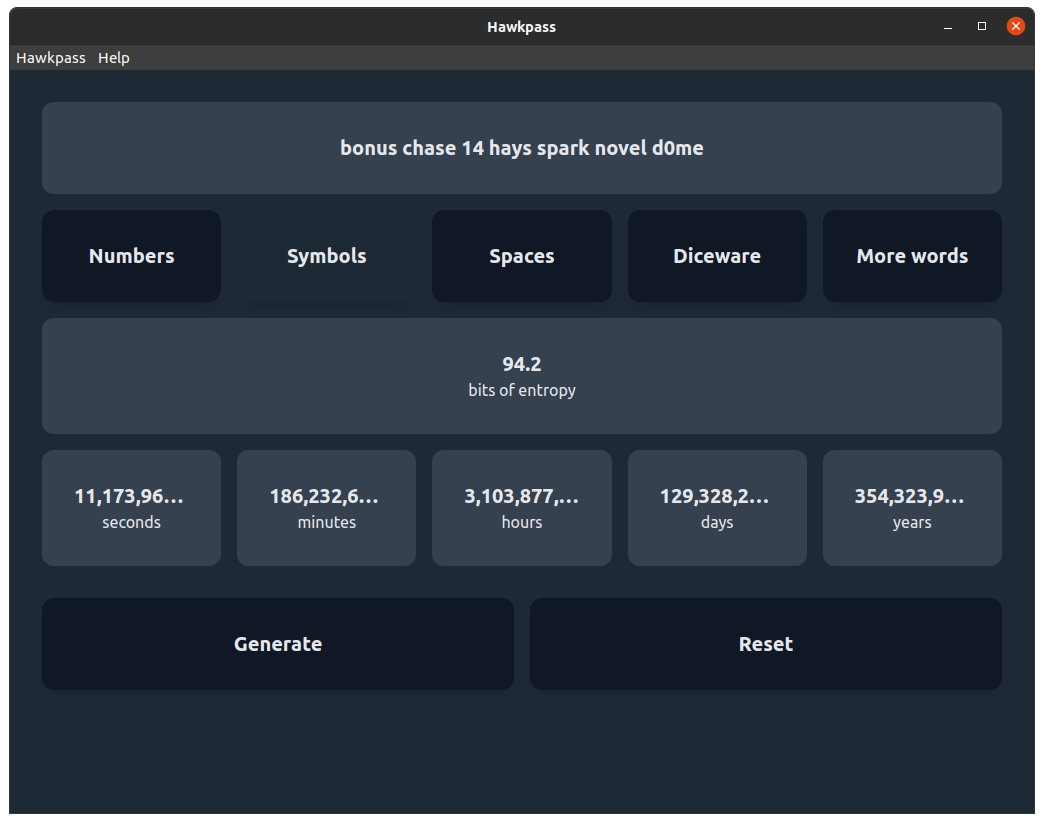
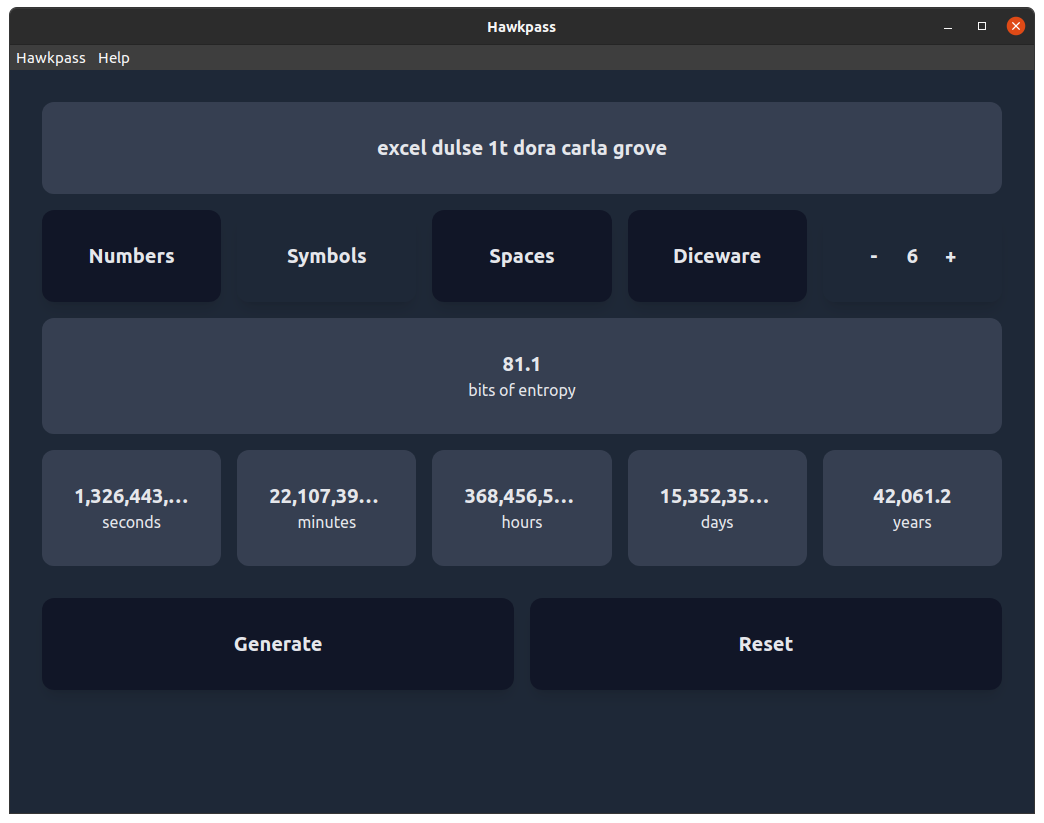
fix: enable collectentropy component

diff --git a/src/index.js b/src/index.js
@@ -63,9 +63,9 @@ const App = () => {
   return (
     <>
       <ToastContainer />
-      {/* {!entropyCollected ? (
+      {!entropyCollected ? (
         <CollectEntropy options={options} setData={setData} fn={pwd} />
-      ) : null} */}
+      ) : null}
       <Layout>
         <Password value={data.password} />
         <Options

diff --git a/src/components/Options.js b/src/components/Options.js
@@ -52,11 +52,6 @@ export const Options = props => {
           +
         </div>
       </div>
-      {/* <Button
-        title="More words"
-        bgColor={useMoreWords ? 'bg-gray-900' : 'bg-gray-800'}
-        onClick={() => onSetOptions('useMoreWords')}
-      /> */}
     </div>
   );
 };

diff --git a/README.md b/README.md
@@ -39,7 +39,13 @@ $ npm run develop
 
 ## Packaging Hawkpass
 
-Packaging Hawkpass for your platform can be done using [Electron Forge](https://www.electronforge.io/).
+Before packaging you need to run a production build by typing:
+
+```
+$ npm run build
+```
+
+Then packaging Hawkpass for your platform can be done using [Electron Forge](https://www.electronforge.io/).
 
 To generate platform specific distributables type:
 
@@ -48,6 +54,20 @@ $ npm run make
 ```
 
 Check the **out** folder for the created package.
+
+## FAQ
+
+### Why use passphrases?
+
+> The word "passphrase" is used to convey the idea that a password, which is a single word, is far too short to protect you and that using a longer phrase is much better. The increased length can allow for a greater number of possibilities overall, even if you use a passphrase made of random words to help you remember it. Passphrases made of randomly-chosen words can be both easy to remember and hard for someone else to guess, which is what we want out of a passphrase. While the EFF random number generators are not casino-grade dice, we believe that they are sufficiently random for these purposes. [(1)][1]
+
+> Computers are now fast enough to quickly guess passwords shorter than ten or so characters - and sometimes quite a few more. That means short passwords of any kind, even totally random ones like nQ\m=8\*x or !s7e&nUY or gaG5^bG, may be too weak, especially for settings where an attacker is able to quickly try an unlimited number of guesses. This is not necessarily true for an online account, where the speed and quantity of guesses will be limited, but it could be true in other cases (for instance, if someone gets ahold of your device and is trying to crack its encryption password). [(1)][1]
+
+### When to use a passphrase?
+
+> Your passphrase is especially suitable when directly used to encrypt information, like for full-disk encryption on your laptop or mobile device. The large number of possibilities makes it much harder for someone to crack even if they get ahold of your device and use encryption-cracking hardware. Other great uses are the passphrase for an encryption key (like your PGP or SSH key), or, especially, for unlocking a password safe or password manager application. [(1)][1]
+
+> Your passphrase should only be used for a single purpose, and especially should not be used for more than one online account. Sometimes password databases or websites get compromised. If you reuse a passphrase and it ends up being leaked in a data breach or otherwise discovered, it can be used to try to access your other accounts. [(1)][1]
 
 ## Contributing
 
@@ -58,3 +78,5 @@ Report any issues or feature requests you have [here](https://github.com/kalpetr
 ## Licence
 
 [MIT](https://github.com/kalpetros/hawkpass-desktop/blob/master/LICENSE)
+
+[1]: (https://www.eff.org/dice)
